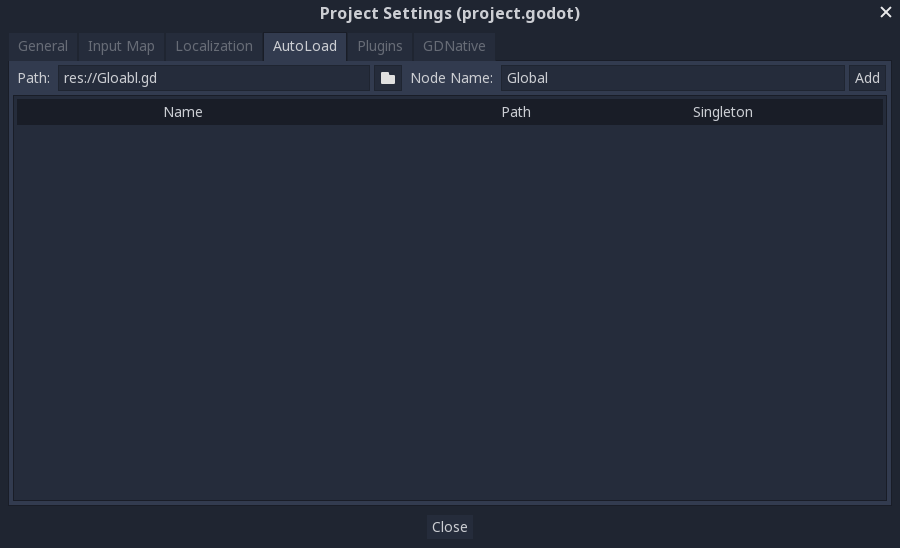
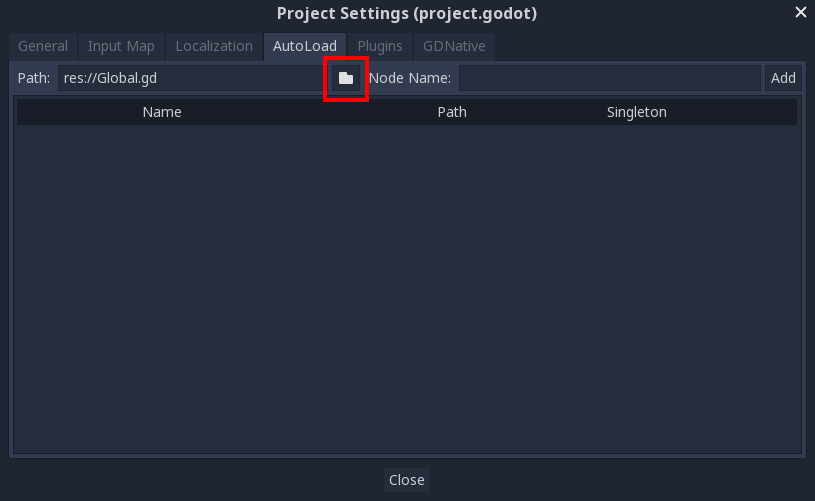
Update Singletons (AutoLoad) tutorial for Godot 3.1 (#2765)
* Update Singletons (AutoLoad) tutorial for Godot 3.1

Changed text to reflect browse button changing from `..` to a folder

* Spelling fix

Fixes `res://Global.gd` being misspelled as `res://Gloabl.gd` in screenshot for Singletons (Autoload) tutorial.

* Highlight browse button in screenshot

This saves adding an extra image file for the browse icon

Changed region(s): [[0.0, 0.0, 1.0, 0.988], [0.9816, 0.0, 1.0, 0.0299]]

diff --git a/getting_started/step_by_step/singletons_autoload.rst b/getting_started/step_by_step/singletons_autoload.rst
@@ -116,7 +116,7 @@ it inherits from ``Node``:
 
 The next step is to add this script to the autoLoad list. Open
 ``Project > Project Settings`` from the menu, switch to the "AutoLoad" tab and
-select the script by clicking the ``..`` button or typing its path:
+select the script by clicking the browse button or typing its path:
 ``res://Global.gd``. Press "Add" to add it to the autoload list:
 
 .. image:: img/autoload_tutorial1.png
